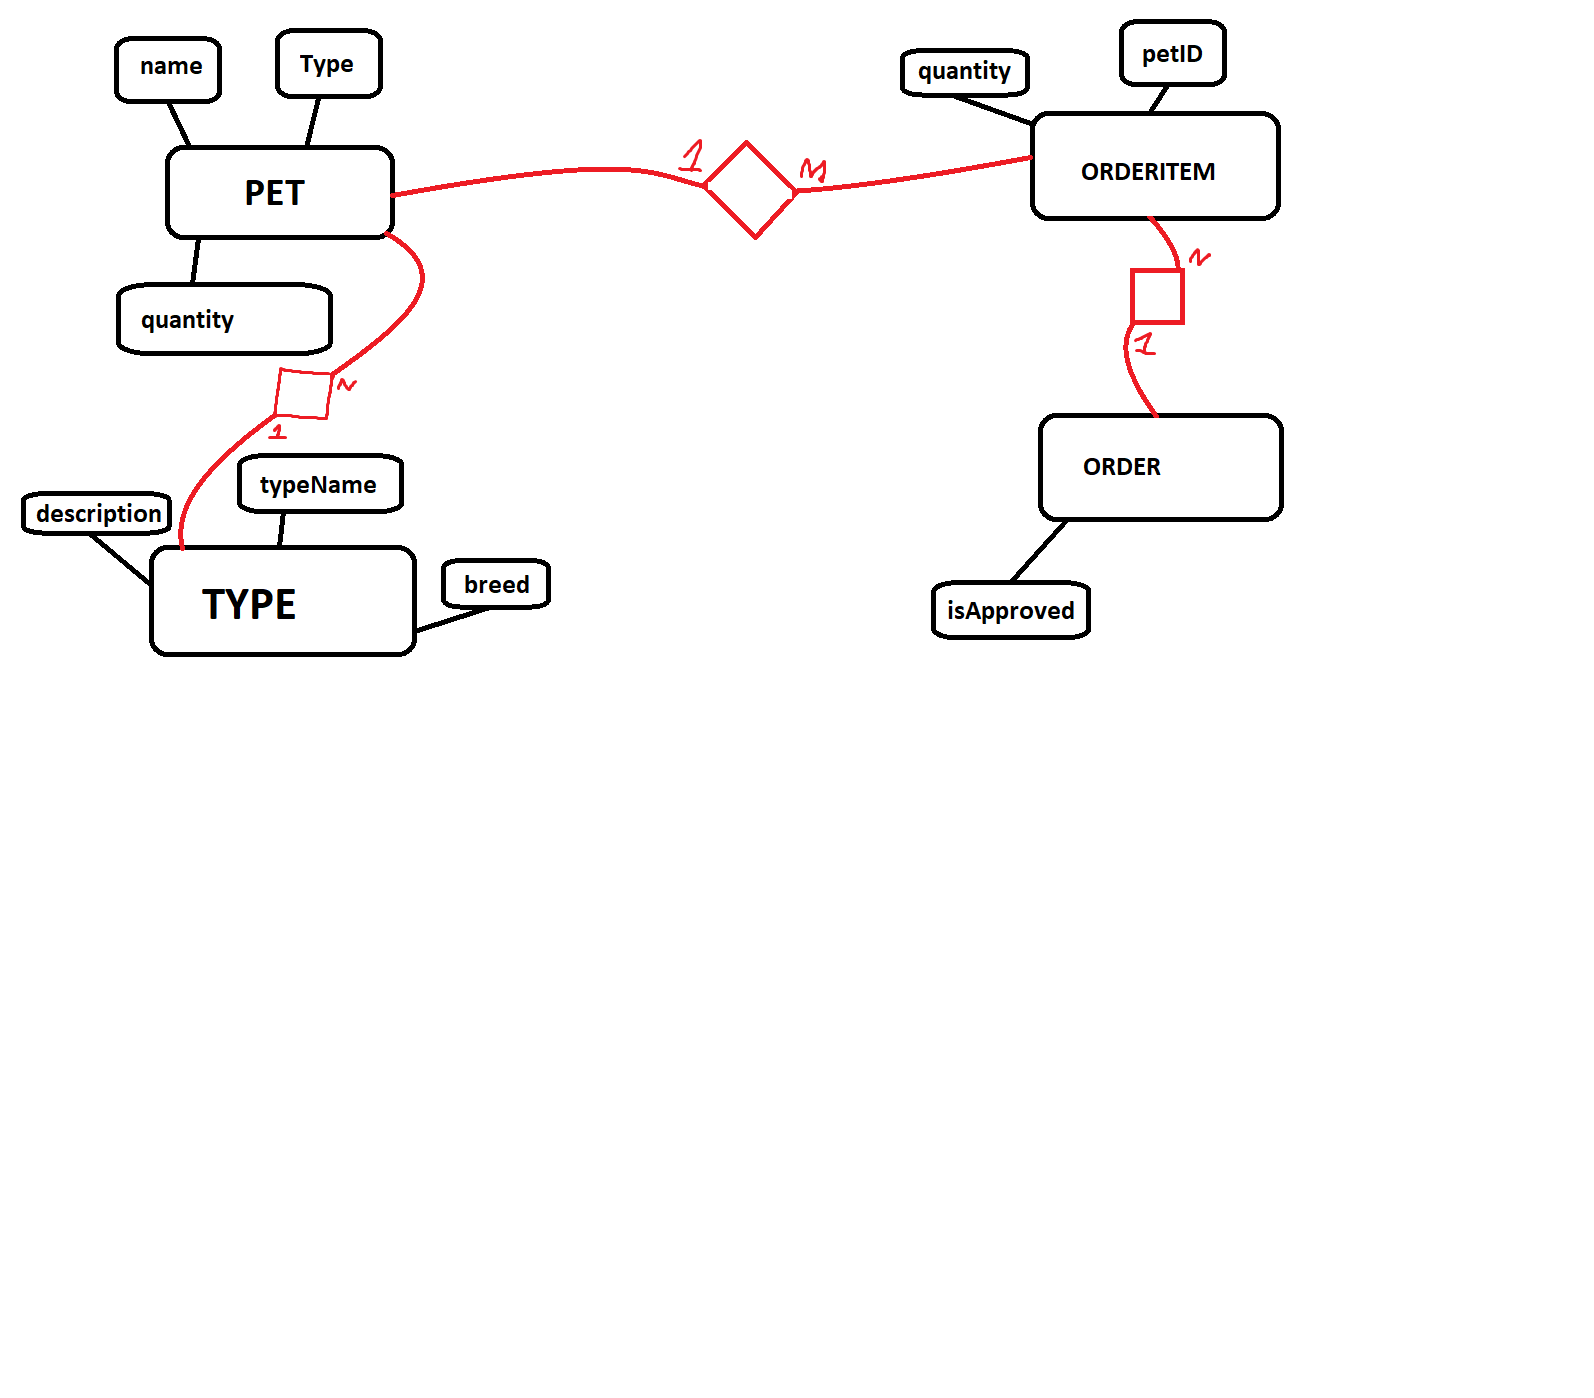
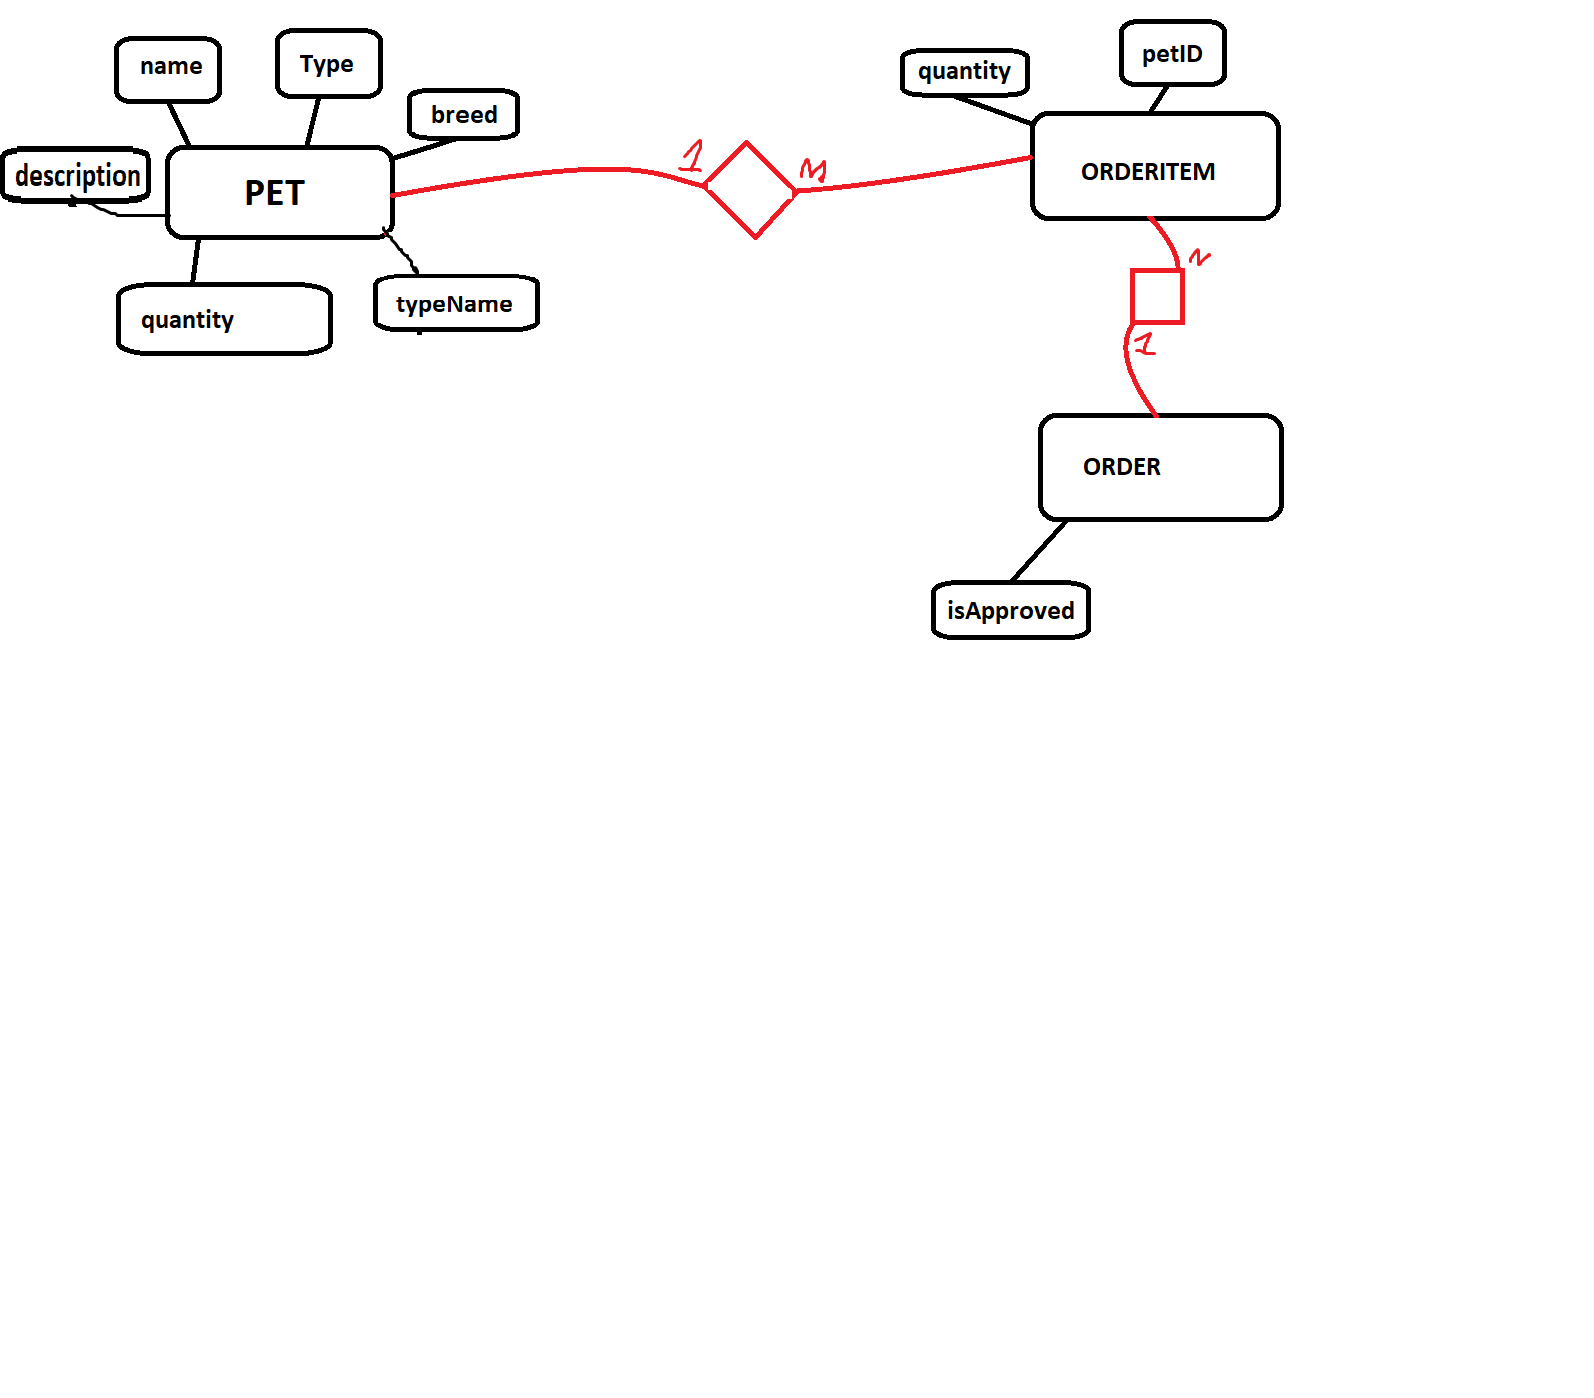
Rest Communication implemented - Part 1

diff --git a/order-management/src/main/java/mk/ukim/finki/emt/ordermanagement/domain/valueobjects/Pet.java b/order-management/src/main/java/mk/ukim/finki/emt/ordermanagement/domain/valueobjects/Pet.java
@@ -1,6 +1,7 @@
 package mk.ukim.finki.emt.ordermanagement.domain.valueobjects;
 
 import com.fasterxml.jackson.annotation.JsonCreator;
+import com.fasterxml.jackson.annotation.JsonProperty;
 import lombok.Getter;
 import mk.ukim.finki.emt.sharedkernel.domain.base.ValueObject;
 
@@ -9,21 +10,32 @@ public class Pet implements ValueObject {
 
     private final PetId id;
     private final String name;
-    private final Type petType;
-    private final int quantity;
+    private final String petTypeName;
+    private final String petDescription;
+    private final String petBreed;
+    private final int adoptions;
 
     private Pet(){
         this.id=PetId.randomId(PetId.class);
         this.name= "";
-        this.petType= new Type();
-        this.quantity=0;
+        this.petTypeName="";
+        this.petDescription="";
+        this.petBreed="";
+        this.adoptions=0;
     }
 
     @JsonCreator
-    public Pet(PetId id, String name, Type petType, int quantity) {
+    public Pet(@JsonProperty("id") PetId id,
+               @JsonProperty("petName") String name,
+               @JsonProperty("petTypeName") String petTypeName,
+               @JsonProperty("petDescription") String petDescription,
+               @JsonProperty("petBreed") String petBreed,
+               @JsonProperty("adoptions") int adoptions) {
         this.id = id;
         this.name = name;
-        this.petType = petType;
-        this.quantity = quantity;
+        this.petTypeName = petTypeName;
+        this.petDescription = petDescription;
+        this.petBreed = petBreed;
+        this.adoptions = adoptions;
     }
 }

diff --git a/order-management/src/main/java/mk/ukim/finki/emt/ordermanagement/xport/client/PetClient.java b/order-management/src/main/java/mk/ukim/finki/emt/ordermanagement/xport/client/PetClient.java
@@ -1,0 +1,46 @@
+package mk.ukim.finki.emt.ordermanagement.xport.client;
+
+
+import mk.ukim.finki.emt.ordermanagement.domain.valueobjects.Pet;
+import org.springframework.beans.factory.annotation.Value;
+import org.springframework.core.ParameterizedTypeReference;
+import org.springframework.http.HttpMethod;
+import org.springframework.http.client.SimpleClientHttpRequestFactory;
+import org.springframework.stereotype.Service;
+import org.springframework.web.client.RestTemplate;
+import org.springframework.web.util.UriComponentsBuilder;
+
+import java.lang.reflect.ParameterizedType;
+import java.util.Collections;
+import java.util.List;
+
+@Service
+public class PetClient {
+
+    private final RestTemplate restTemplate;
+    private final String serverUrl;
+
+    public PetClient(@Value("${app.pet-catalog.url}") String serverUrl){
+        this.serverUrl = serverUrl;
+        this.restTemplate = new RestTemplate();
+        var requestFactory = new SimpleClientHttpRequestFactory();
+        this.restTemplate.setRequestFactory(requestFactory);
+    }
+
+    private UriComponentsBuilder uri() {
+        return UriComponentsBuilder.fromUriString(this.serverUrl);
+    }
+
+    public List<Pet> findAll(){
+        try {
+            return restTemplate.exchange(uri().path("/api/product").build().toUri(), HttpMethod.GET,null, new ParameterizedTypeReference<List<Pet>>() {
+            }).getBody();
+        } catch (Exception e) {
+            return Collections.emptyList();
+        }
+
+    }
+
+
+
+}

diff --git a/pet-catalog/src/main/java/mk/ukim/finki/emt/petcatalog/domain/models/Pet.java b/pet-catalog/src/main/java/mk/ukim/finki/emt/petcatalog/domain/models/Pet.java
@@ -2,6 +2,7 @@ package mk.ukim.finki.emt.petcatalog.domain.models;
 
 
 
+import lombok.Getter;
 import mk.ukim.finki.emt.petcatalog.domain.valueobjects.Quantity;
 import mk.ukim.finki.emt.sharedkernel.domain.base.AbstractEntity;
 
@@ -9,22 +10,29 @@ import javax.persistence.*;
 
 @Entity
 @Table(name="pet")
+@Getter
 public class Pet extends AbstractEntity<PetId> {
 
     private String petName;
-    @OneToOne
-    private PetType petType;
-    //private Quantity quantity;
+    private String petTypeName;
+    private String petDescription;
+    private String petBreed;
     private int adoptions;
 
     private Pet(){
         super(PetId.randomId(PetId.class));
     }
 
-    public static Pet build(String petName, PetType petType, int adoptions){
+    public static Pet build(String petName,
+                            String petTypeName,
+                            String petDescription,
+                            String petBreed,
+                            int adoptions){
         Pet p = new Pet();
         p.petName = petName;
-        p.petType = petType;
+        p.petTypeName = petTypeName;
+        p.petDescription = petDescription;
+        p.petBreed = petBreed;
         p.adoptions = adoptions;
         return p;
     }

diff --git a/pet-catalog/src/test/java/mk/ukim/finki/emt/petcatalog/PetCatalogApplicationTests.java b/pet-catalog/src/test/java/mk/ukim/finki/emt/petcatalog/PetCatalogApplicationTests.java
@@ -1,7 +1,13 @@
 package mk.ukim.finki.emt.petcatalog;
 
+import mk.ukim.finki.emt.petcatalog.domain.models.Pet;
+import mk.ukim.finki.emt.petcatalog.services.PetService;
+import mk.ukim.finki.emt.petcatalog.services.impl.PetServiceImpl;
 import org.junit.jupiter.api.Test;
+import org.springframework.beans.factory.annotation.Autowired;
 import org.springframework.boot.test.context.SpringBootTest;
+
+import java.util.List;
 
 @SpringBootTest
 class PetCatalogApplicationTests {
@@ -9,5 +15,17 @@ class PetCatalogApplicationTests {
     @Test
     void contextLoads() {
     }
+
+//    @Autowired
+//    private PetClient petClient;
+
+//    @Autowired
+//    private PetServiceImpl petClient;
+//
+//    @Test
+//    public void testPlaceOrderWithRealData(){
+//        List<Pet> petList = petClient.getAll();
+//        System.out.println(petList);
+//    }
 
 }

diff --git a/pet-catalog/src/main/java/mk/ukim/finki/emt/petcatalog/config/DataInitializer.java b/pet-catalog/src/main/java/mk/ukim/finki/emt/petcatalog/config/DataInitializer.java
@@ -1,0 +1,26 @@
+package mk.ukim.finki.emt.petcatalog.config;
+
+import lombok.AllArgsConstructor;
+import mk.ukim.finki.emt.petcatalog.domain.models.Pet;
+import mk.ukim.finki.emt.petcatalog.domain.repository.PetRepository;
+import org.springframework.stereotype.Component;
+
+import javax.annotation.PostConstruct;
+import java.util.Arrays;
+
+@Component
+@AllArgsConstructor
+public class DataInitializer {
+
+    private final PetRepository petRepository;
+
+    @PostConstruct
+    public void initData(){
+        Pet p1 = Pet.build("Jimi","Machka","Mil, crn i mazen","Kozhudosho", 1);
+        Pet p2 = Pet.build("Sheki","Kuche","Se smeshi, kafenkast i rovari","Kratkonozhec", 1);
+
+        if(petRepository.findAll().isEmpty()){
+            petRepository.saveAll(Arrays.asList(p1,p2));
+        }
+    }
+}

diff --git a/pet-catalog/src/main/java/mk/ukim/finki/emt/petcatalog/xport/rest/PetResource.java b/pet-catalog/src/main/java/mk/ukim/finki/emt/petcatalog/xport/rest/PetResource.java
@@ -1,0 +1,23 @@
+package mk.ukim.finki.emt.petcatalog.xport.rest;
+
+import lombok.AllArgsConstructor;
+import mk.ukim.finki.emt.petcatalog.domain.models.Pet;
+import mk.ukim.finki.emt.petcatalog.services.PetService;
+import org.springframework.web.bind.annotation.GetMapping;
+import org.springframework.web.bind.annotation.RequestMapping;
+import org.springframework.web.bind.annotation.RestController;
+
+import java.util.List;
+
+@RestController
+@RequestMapping("/api/pet")
+@AllArgsConstructor
+public class PetResource {
+
+    private final PetService petService;
+
+    @GetMapping
+    public List<Pet> getAll(){
+        return petService.getAll();
+    }
+}

diff --git a/order-management/src/test/java/mk/ukim/finki/emt/ordermanagement/service/OrderServiceImplTests.java b/order-management/src/test/java/mk/ukim/finki/emt/ordermanagement/service/OrderServiceImplTests.java
@@ -1,0 +1,21 @@
+package mk.ukim.finki.emt.ordermanagement.service;
+
+import mk.ukim.finki.emt.ordermanagement.domain.valueobjects.Pet;
+import mk.ukim.finki.emt.ordermanagement.xport.client.PetClient;
+import org.junit.jupiter.api.Test;
+import org.springframework.beans.factory.annotation.Autowired;
+import org.springframework.boot.test.context.SpringBootTest;
+
+import java.util.List;
+
+@SpringBootTest
+public class OrderServiceImplTests {
+    @Autowired
+    private PetClient petClient;
+
+    @Test
+    public void testPlaceOrderWithRealData(){
+        List<Pet> petList = petClient.findAll();
+        System.out.println(petList);
+    }
+}

diff --git a/pet-catalog/src/main/java/mk/ukim/finki/emt/petcatalog/domain/models/PetId.java b/pet-catalog/src/main/java/mk/ukim/finki/emt/petcatalog/domain/models/PetId.java
@@ -1,13 +1,19 @@
 package mk.ukim.finki.emt.petcatalog.domain.models;
 
 import mk.ukim.finki.emt.sharedkernel.domain.base.DomainObjectId;
+import org.springframework.lang.NonNull;
 
 public class PetId extends DomainObjectId {
     private PetId(){
         super(PetId.randomId(PetId.class).getId());
     }
 
-    public PetId(String uuid){
+    public PetId(@NonNull String uuid){
         super(uuid);
+    }
+
+    public static PetId of(String uuid){
+        PetId p = new PetId(uuid);
+        return p;
     }
 }

diff --git a/pet-catalog/src/main/java/mk/ukim/finki/emt/petcatalog/services/impl/PetServiceImpl.java b/pet-catalog/src/main/java/mk/ukim/finki/emt/petcatalog/services/impl/PetServiceImpl.java
@@ -27,7 +27,11 @@ public class PetServiceImpl implements PetService {
 
     @Override
     public Pet createPet(PetForm form) {
-        Pet p = Pet.build(form.getPetName(), form.getPetType(), form.getAdoptions());
+        Pet p = Pet.build(form.getPetName(),
+                form.getPetTypeName(),
+                form.getPetDescription(),
+                form.getPetBreed(),
+                form.getAdoptions());
         petRepository.save(p);
         return p;
     }

diff --git a/order-management/src/main/java/mk/ukim/finki/emt/ordermanagement/domain/repository/OrderRepository.java b/order-management/src/main/java/mk/ukim/finki/emt/ordermanagement/domain/repository/OrderRepository.java
@@ -3,6 +3,8 @@ package mk.ukim.finki.emt.ordermanagement.domain.repository;
 import mk.ukim.finki.emt.ordermanagement.domain.model.Order;
 import mk.ukim.finki.emt.ordermanagement.domain.model.OrderId;
 import org.springframework.data.jpa.repository.JpaRepository;
+import org.springframework.stereotype.Repository;
 
+@Repository
 public interface OrderRepository extends JpaRepository<Order, OrderId> {
 }

diff --git a/pet-catalog/src/main/java/mk/ukim/finki/emt/petcatalog/domain/repository/PetRepository.java b/pet-catalog/src/main/java/mk/ukim/finki/emt/petcatalog/domain/repository/PetRepository.java
@@ -3,6 +3,8 @@ package mk.ukim.finki.emt.petcatalog.domain.repository;
 import mk.ukim.finki.emt.petcatalog.domain.models.Pet;
 import mk.ukim.finki.emt.petcatalog.domain.models.PetId;
 import org.springframework.data.jpa.repository.JpaRepository;
+import org.springframework.stereotype.Repository;
 
+@Repository
 public interface PetRepository extends JpaRepository<Pet, PetId> {
 }

diff --git a/pet-catalog/src/main/java/mk/ukim/finki/emt/petcatalog/services/forms/PetForm.java b/pet-catalog/src/main/java/mk/ukim/finki/emt/petcatalog/services/forms/PetForm.java
@@ -1,13 +1,14 @@
 package mk.ukim.finki.emt.petcatalog.services.forms;
 
 import lombok.Data;
-import mk.ukim.finki.emt.petcatalog.domain.models.PetType;
 
 @Data
 public class PetForm {
 
     private String petName;
-    private PetType petType;
+    private String petTypeName;
+    private String petDescription;
+    private String petBreed;
     private int adoptions;
 
 }
